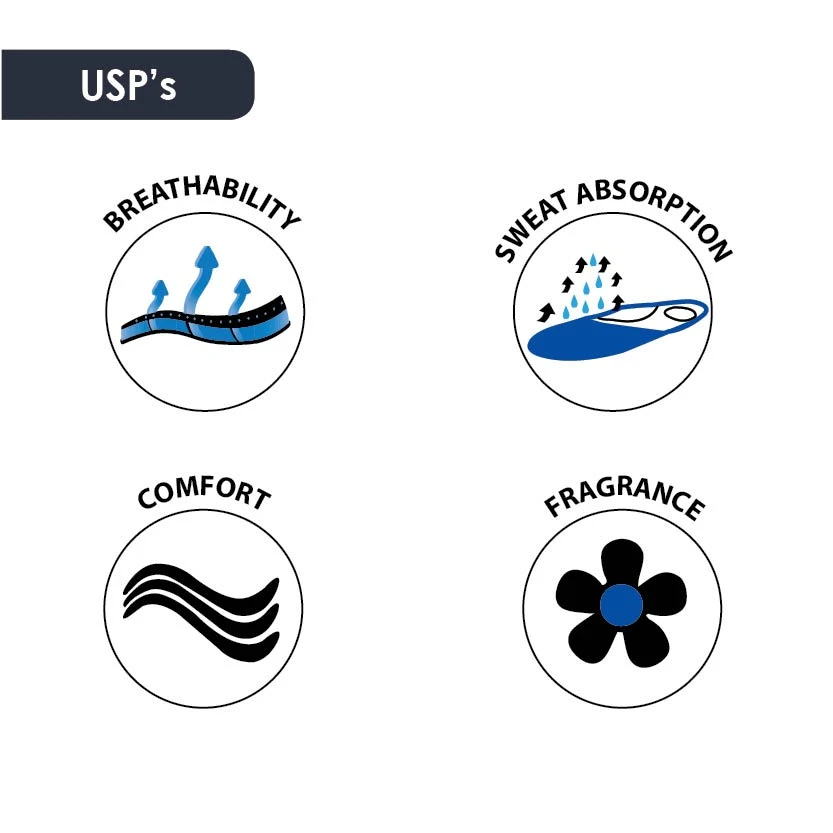
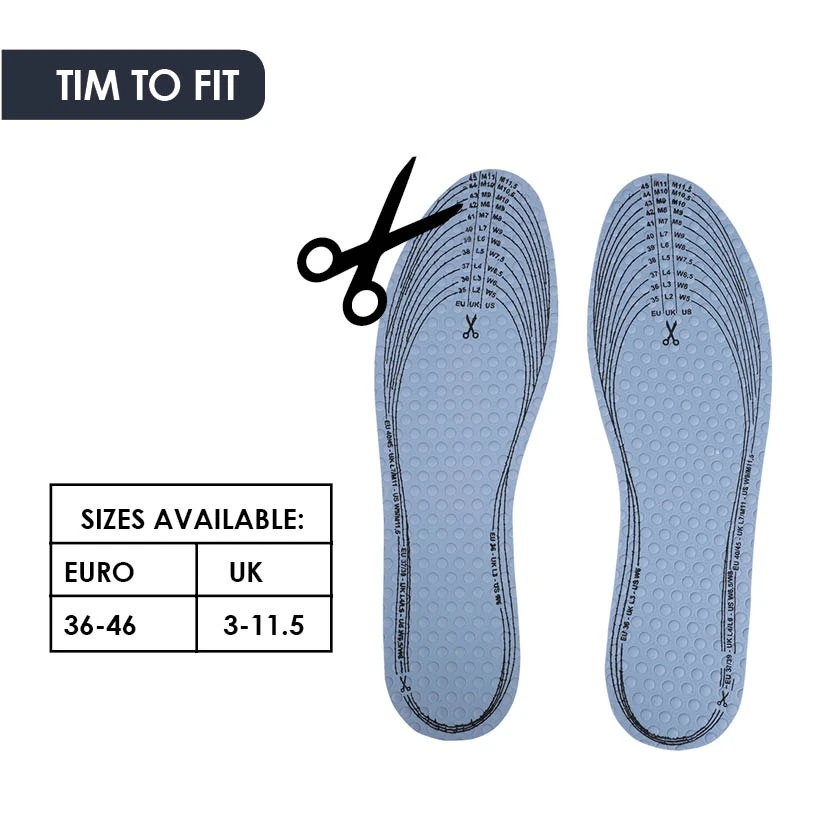
fix: add image_5 support, Ease Pacific Blue 5th image, scroll-to-top padding in gallery, and rename Gel comfort footbed product title --deploy=true

diff --git a/storefront/src/modules/products/components/image-gallery/index.tsx b/storefront/src/modules/products/components/image-gallery/index.tsx
@@ -106,7 +106,7 @@ const ImageGallery = ({ images, discountPercentage }: ImageGalleryProps) => {
         {/* Main Gallery */}
         <div 
           id="main-gallery-container"
-          className="flex flex-row lg:flex-col flex-1 gap-x-4 lg:gap-y-6 overflow-x-auto lg:overflow-y-auto h-full min-h-0 lg:relative snap-x lg:snap-none snap-mandatory no-scrollbar lg:pb-0"
+          className="flex flex-row lg:flex-col flex-1 gap-x-4 lg:gap-y-6 overflow-x-auto lg:overflow-y-auto h-full min-h-0 lg:relative snap-x lg:snap-none snap-mandatory no-scrollbar lg:pb-[100%]"
         >
           {images.map((image, index) => {
             return (

diff --git a/storefront/src/modules/products/templates/index.tsx b/storefront/src/modules/products/templates/index.tsx
@@ -110,6 +110,7 @@ const StagingProductTemplate: React.FC<ProductTemplateProps> = ({
       if (meta.image_2) vImgs.push({ id: 'v2', url: meta.image_2 } as any)
       if (meta.image_3) vImgs.push({ id: 'v3', url: meta.image_3 } as any)
       if (meta.image_4) vImgs.push({ id: 'v4', url: meta.image_4 } as any)
+      if (meta.image_5) vImgs.push({ id: 'v5', url: meta.image_5 } as any)
     }
 
     let baseImages = propImages?.length ? propImages : (product?.images?.length ? product.images : [])

diff --git a/storefront/src/app/(main)/staging/product-detail/staging-template.tsx b/storefront/src/app/(main)/staging/product-detail/staging-template.tsx
@@ -90,6 +90,7 @@ const StagingProductTemplate: React.FC<ProductTemplateProps> = ({
       if (meta.image_2) vImgs.push({ id: 'v2', url: meta.image_2 } as any)
       if (meta.image_3) vImgs.push({ id: 'v3', url: meta.image_3 } as any)
       if (meta.image_4) vImgs.push({ id: 'v4', url: meta.image_4 } as any)
+      if (meta.image_5) vImgs.push({ id: 'v5', url: meta.image_5 } as any)
       if (vImgs.length > 0) return vImgs
     }
 
